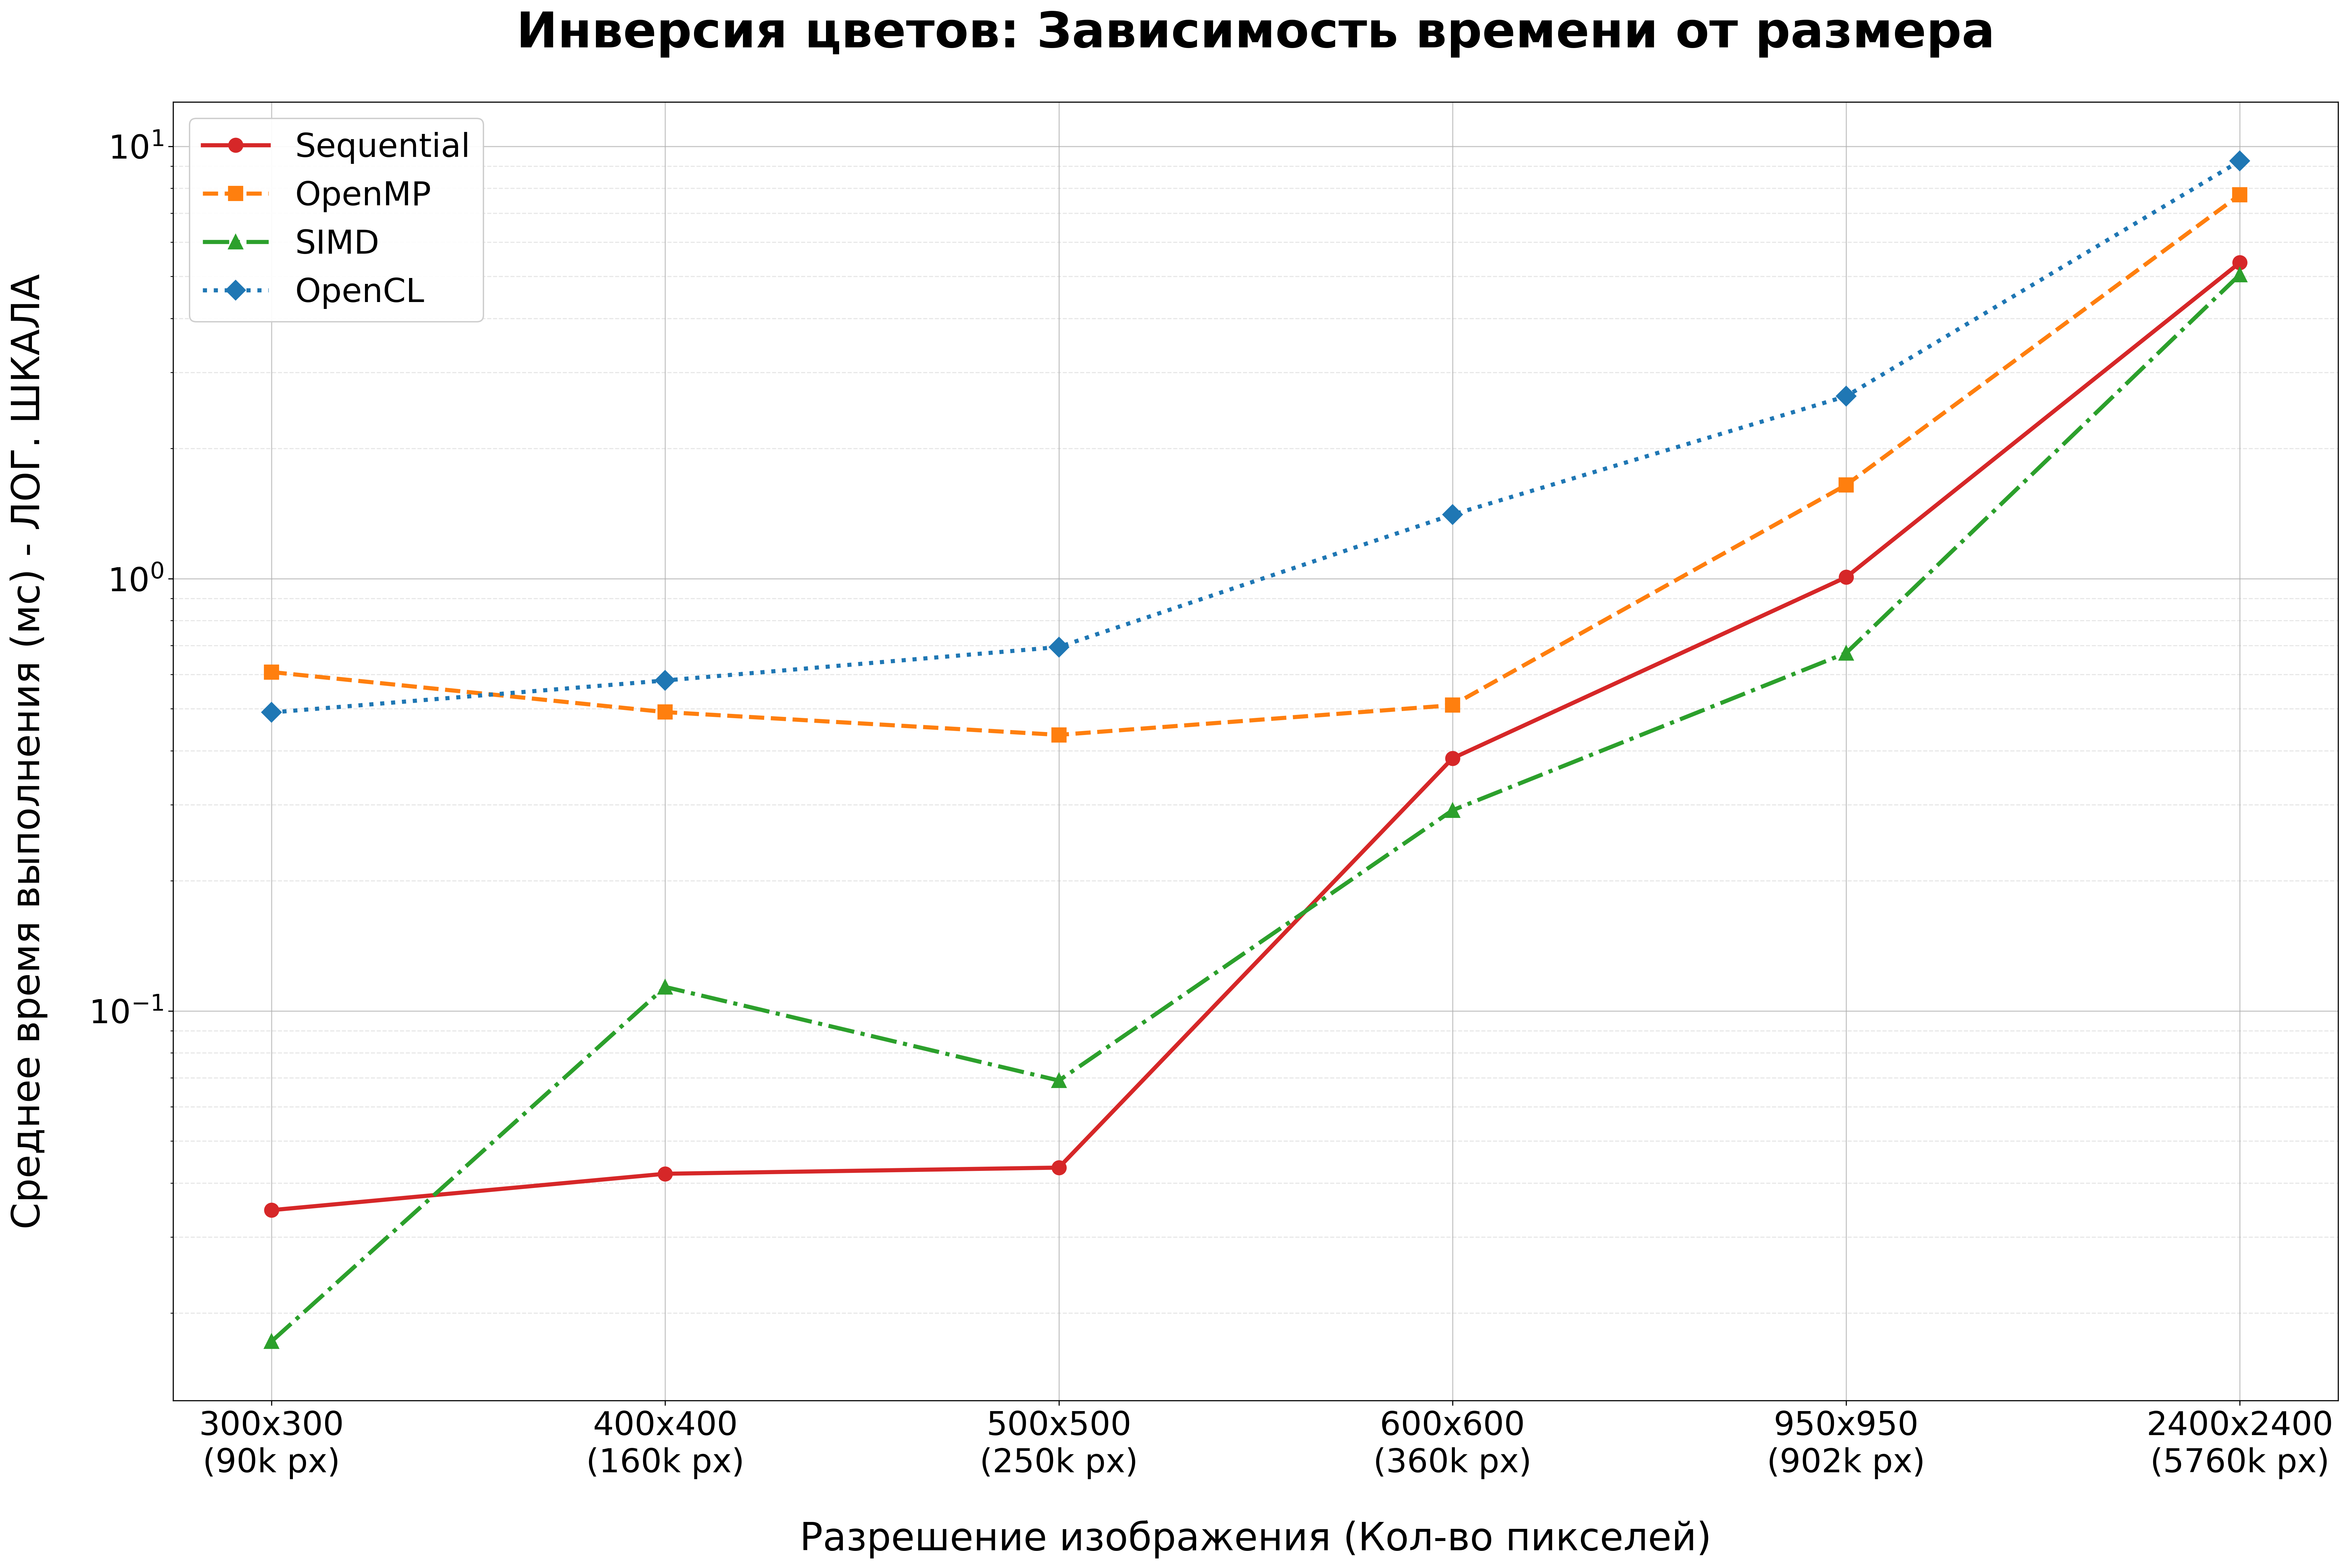
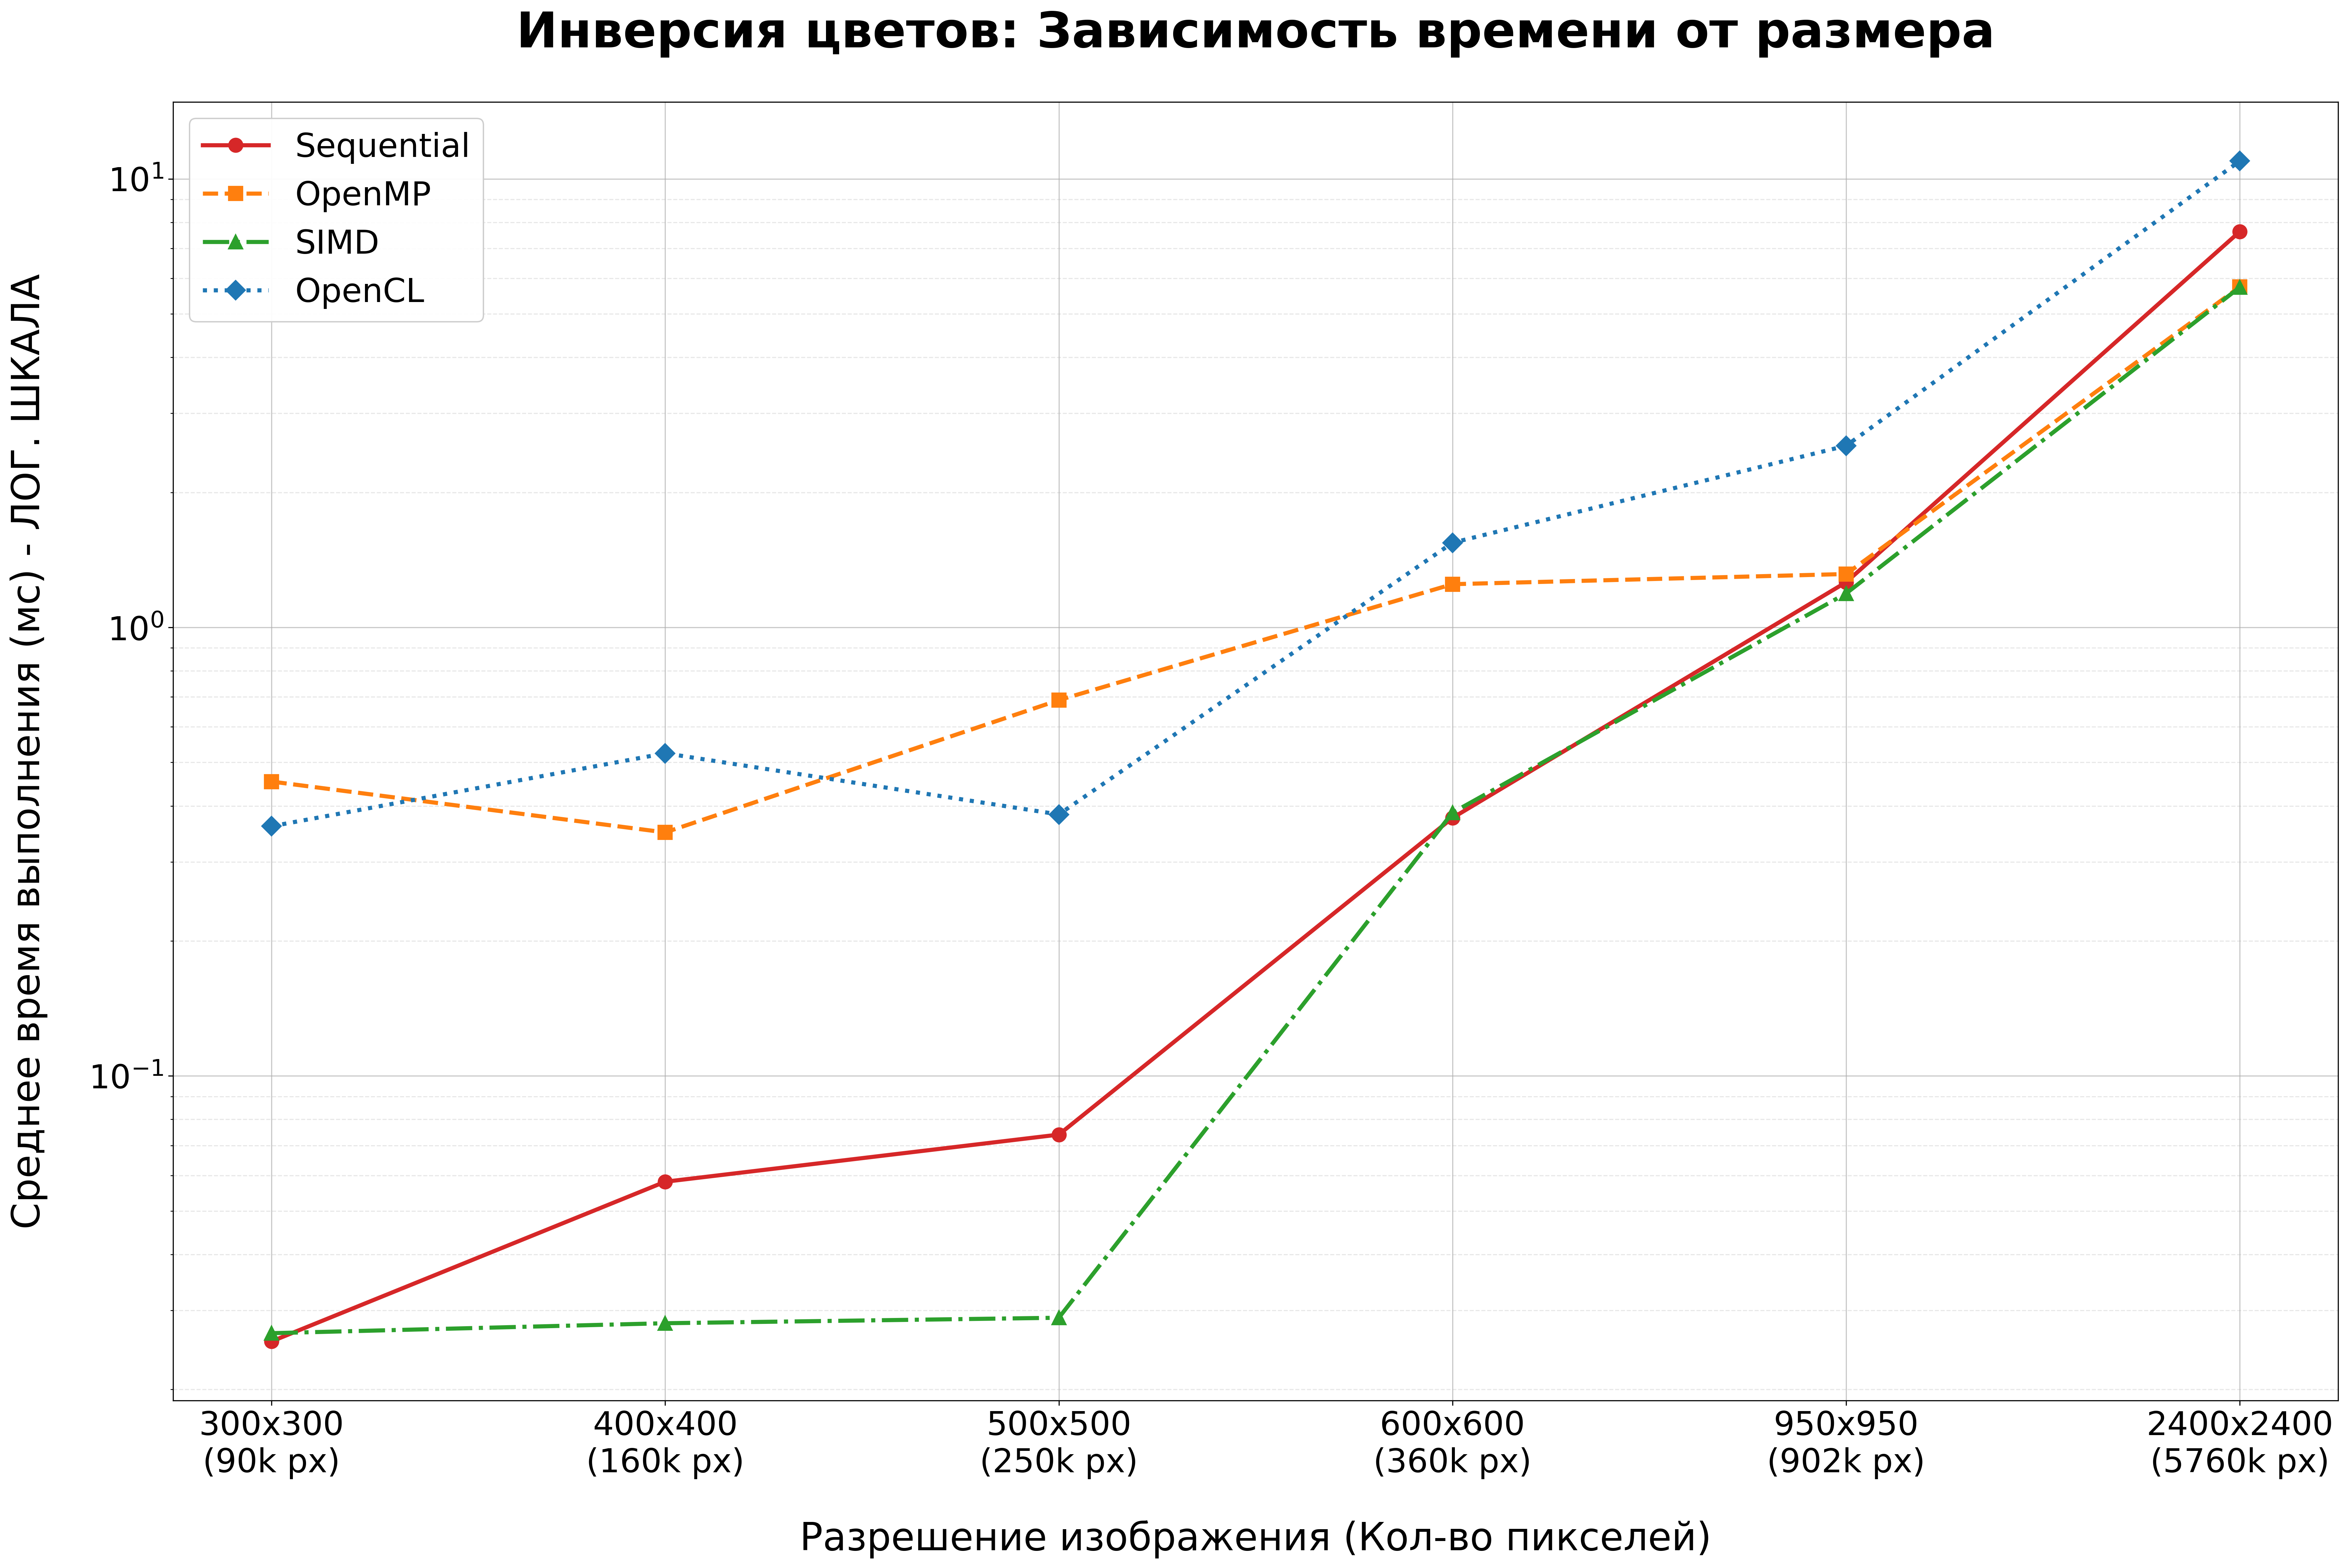
finil

diff --git a/main.cpp b/main.cpp
@@ -583,8 +583,6 @@ int main(int argc, char** argv) {
     const int repeats = (argc >= 3) ? std::atoi(argv[2]) : 5;
 
     const ImageView input = LoadPng(input_path);
-    std::cout << "Loaded " << input.width << "x" << input.height << " ("
-              << input.pixels.size() / (1024.0 * 1024.0) << " MB)\n";
 
     namespace fs = std::filesystem;
     const fs::path input_stem = fs::path(input_path).stem();
@@ -601,25 +599,22 @@ int main(int argc, char** argv) {
     };
 
     std::vector<BenchmarkRow> rows;
-    rows.push_back(bench("Inversion", "Sequential", [&] { return InvertSequential(input); }, "inversion.png"));
-    rows.push_back(bench("Inversion", "OpenMP",     [&] { return InvertOpenMp(input); }));
-    rows.push_back(bench("Inversion", "SIMD",       [&] { return InvertSimd(input); }));
-    rows.push_back(bench("Inversion", "OpenCL",     [&] { return InvertOpenCl(cl_ctx, input); }));
+    rows.push_back(bench("Inversion", "Sequential", [&] { return InvertSequential(input); }, "inversion_seq.png"));
+    rows.push_back(bench("Inversion", "OpenMP",     [&] { return InvertOpenMp(input); },     "inversion_omp.png"));
+    rows.push_back(bench("Inversion", "SIMD",       [&] { return InvertSimd(input); },       "inversion_simd.png"));
+    rows.push_back(bench("Inversion", "OpenCL",     [&] { return InvertOpenCl(cl_ctx, input); }, "inversion_cl.png"));
 
-    rows.push_back(bench("Median 3x3", "Sequential", [&] { return MedianSequential(input); }, "median.png"));
-    rows.push_back(bench("Median 3x3", "OpenMP",     [&] { return MedianOpenMp(input); }));
-    rows.push_back(bench("Median 3x3", "SIMD",       [&] { return MedianSimd(input); }));
-    rows.push_back(bench("Median 3x3", "OpenCL",     [&] { return RunOpenCl2d(cl_ctx, cl_ctx.median_kernel, input); }));
+    rows.push_back(bench("Median 3x3", "Sequential", [&] { return MedianSequential(input); }, "median_seq.png"));
+    rows.push_back(bench("Median 3x3", "OpenMP",     [&] { return MedianOpenMp(input); },     "median_omp.png"));
+    rows.push_back(bench("Median 3x3", "SIMD",       [&] { return MedianSimd(input); },       "median_simd.png"));
+    rows.push_back(bench("Median 3x3", "OpenCL",     [&] { return RunOpenCl2d(cl_ctx, cl_ctx.median_kernel, input); }, "median_cl.png"));
 
-    rows.push_back(bench("Sobel Edges", "Sequential", [&] { return EdgeSequential(input); }, "edges.png"));
-    rows.push_back(bench("Sobel Edges", "OpenMP",     [&] { return EdgeOpenMp(input); }));
-    rows.push_back(bench("Sobel Edges", "SIMD",       [&] { return EdgeSimd(input); }));
-    rows.push_back(bench("Sobel Edges", "OpenCL",     [&] { return RunOpenCl2d(cl_ctx, cl_ctx.sobel_kernel, input); }));
+    rows.push_back(bench("Sobel Edges", "Sequential", [&] { return EdgeSequential(input); }, "edges_seq.png"));
+    rows.push_back(bench("Sobel Edges", "OpenMP",     [&] { return EdgeOpenMp(input); },     "edges_omp.png"));
+    rows.push_back(bench("Sobel Edges", "SIMD",       [&] { return EdgeSimd(input); },       "edges_simd.png"));
+    rows.push_back(bench("Sobel Edges", "OpenCL",     [&] { return RunOpenCl2d(cl_ctx, cl_ctx.sobel_kernel, input); }, "edges_cl.png"));
 
-    std::cout << "Saved results to " << out_dir.string() << "/\n";
-
-    PrintTable(rows);
-    std::FILE* csv = std::fopen("results.csv", "a");
+    std::FILE* csv = std::fopen("C:\\image_filters\\results.csv", "a");
     if (csv) {
       const double megapixels = (input.width * static_cast<double>(input.height)) / 1.0e6;
       for (const auto& r : rows) {

diff --git a/main.py b/main.py
@@ -7,24 +7,24 @@ resolutions = ['300x300', '400x400', '500x500', '600x600', '950x950', '2400x2400
 pixels = [90000, 160000, 250000, 360000, 902500, 5760000]
 
 invert_data = {
-    'Sequential': [0.0346, 0.0420, 0.0434, 0.3839, 1.0074, 5.3803],
-    'OpenMP':     [0.6078, 0.4911, 0.4350, 0.5095, 1.6469, 7.7196],
-    'SIMD':       [0.0172, 0.1136, 0.0690, 0.2911, 0.6726, 5.0472],
-    'OpenCL':     [0.4902, 0.5812, 0.6945, 1.4055, 2.6415, 9.2447],
+    'Sequential': [0.0256, 0.0581, 0.0740, 0.3761, 1.2611, 7.6297],
+    'OpenMP':     [0.4532, 0.3491, 0.6885, 1.2483, 1.3152, 5.7430],
+    'SIMD':       [0.0267, 0.0281, 0.0289, 0.3863, 1.1904, 5.7333],
+    'OpenCL':     [0.3603, 0.5240, 0.3828, 1.5443, 2.5409, 10.9579],
 }
 
 median_data = {
-    'Sequential': [15.1532, 30.7538, 36.6511, 36.9428, 152.1254, 984.4886],
-    'OpenMP':     [5.0534,  6.6268,  5.7356,  5.6820,  47.8455,  117.4008],
-    'SIMD':       [0.7909,  4.2538,  2.4504,  3.4945,  7.4681,   47.1407],
-    'OpenCL':     [0.5023,  0.8760,  0.5615,  1.1622,  2.1135,   11.7677],
+    'Sequential': [23.2204, 33.1446, 34.0246, 35.6081, 198.6419, 1144.8404],
+    'OpenMP':     [4.3767,  5.1697,  5.5207,  7.9888,  22.7645,  109.7331],
+    'SIMD':       [0.7579,  3.4040,  3.1016,  2.9518,  10.2339,  58.9350],
+    'OpenCL':     [0.3401,  0.4588,  0.6845,  1.8001,  2.7854,   9.8373],
 }
 
 sobel_data = {
-    'Sequential': [0.6774, 1.3545, 0.9265, 2.0325, 4.0301, 35.6913],
-    'OpenMP':     [0.5431, 1.1135, 0.9713, 1.5988, 2.6335, 15.4130],
-    'SIMD':       [0.0894, 0.4844, 0.7920, 0.7515, 1.3945, 14.7785],
-    'OpenCL':     [0.3579, 0.6363, 0.5409, 1.4300, 2.4181, 11.9788],
+    'Sequential': [0.5162, 1.0819, 1.3082, 2.1527, 4.8588, 41.8887],
+    'OpenMP':     [0.7883, 1.2746, 1.2097, 1.9437, 3.0878, 18.7524],
+    'SIMD':       [0.0975, 0.1916, 0.4405, 0.7523, 1.6026, 17.0003],
+    'OpenCL':     [0.5468, 0.5094, 0.6883, 1.8485, 2.9369, 11.5313],
 }
 
 styles = {

diff --git a/REPORT.md b/REPORT.md
@@ -10,34 +10,34 @@
 
 | Размер | Мп | Sequential | OpenMP | SIMD (AVX2) | OpenCL |
 |--------|------|-----------|--------|-------------|--------|
-| 300×300 | 0.09 | 0.016 | 0.362     | 0.015       | 0.371 |
-| 400×400 | 0.16 | 0.033 | 0.374     | 0.030       | 0.465 |
-| 500×500 | 0.25 | 0.078 | 0.529     | 0.048       | 0.442 |
-| 600×600 | 0.36 | 0.252 | 0.891     | 0.433       | 0.963 |
-| 950×950 | 0.90 | 1.334 | 1.390     | 1.074       | 2.591 |
-| 2400×2400| 5.76| 7.967 | 6.279     | 6.597       | 11.487 |
+| 300×300   | 0.09 | 0.026 | 0.453 | 0.027 | 0.360 |
+| 400×400   | 0.16 | 0.058 | 0.349 | 0.028 | 0.524 |
+| 500×500   | 0.25 | 0.074 | 0.689 | 0.029 | 0.383 |
+| 600×600   | 0.36 | 0.376 | 1.248 | 0.386 | 1.544 |
+| 950×950   | 0.90 | 1.261 | 1.315 | 1.190 | 2.541 |
+| 2400×2400 | 5.76 | 7.630 | 5.743 | 5.733 | 10.958 |
 
 ### Медианный фильтр 3×3
 
 | Размер | Мп | Sequential | OpenMP | SIMD (AVX2) | OpenCL |
 |--------|------|-----------|--------|-------------|--------|
-| 300×300 | 0.09 | 26.71    | 4.09   | 1.88        |    0.39 |
-| 400×400 | 0.16 | 44.19    | 4.88   | 2.47        |    0.32 |
-| 500×500 | 0.25 | 37.20    | 5.58   | 2.75        |    0.59 |
-| 600×600 | 0.36 | 44.15    | 5.57   | 2.24        |    1.02 |
-| 950×950 | 0.90 | 218.95   | 19.96  | 9.89        |    3.18 |
-| 2400×2400 | 5.76 | 1323.29| 113.21 | 47.28       |    13.08 |
+| 300×300   | 0.09 |   23.22 |   4.38 |   0.76 |  0.34 |
+| 400×400   | 0.16 |   33.14 |   5.17 |   3.40 |  0.46 |
+| 500×500   | 0.25 |   34.02 |   5.52 |   3.10 |  0.68 |
+| 600×600   | 0.36 |   35.61 |   7.99 |   2.95 |  1.80 |
+| 950×950   | 0.90 |  198.64 |  22.76 |  10.23 |  2.79 |
+| 2400×2400 | 5.76 | 1144.84 | 109.73 |  58.93 |  9.84 |
 
 ### Sobel (обнаружение границ)
 
 | Размер | Мп | Sequential | OpenMP | SIMD (AVX2) | OpenCL |
 |--------|------|-----------|--------|-------------|--------|
-| 300×300 | 0.09 | 0.63     | 0.77   | 0.19        | 0.31 |
-| 400×400 | 0.16 | 0.60     | 1.23   | 0.39        | 0.63 |
-| 500×500 | 0.25 | 1.23     | 1.06   | 0.23        | 0.69 |
-| 600×600 | 0.36 | 1.52     | 1.27   | 0.62        | 1.24 |
-| 950×950 | 0.90 | 5.08     | 3.13   | 1.75        | 2.37 |
-| 2400×2400 | 5.76| 34.57   | 16.03  | 13.51       | 13.12 |
+| 300×300   | 0.09 |  0.52 |  0.79 |  0.10 |  0.55 |
+| 400×400   | 0.16 |  1.08 |  1.27 |  0.19 |  0.51 |
+| 500×500   | 0.25 |  1.31 |  1.21 |  0.44 |  0.69 |
+| 600×600   | 0.36 |  2.15 |  1.94 |  0.75 |  1.85 |
+| 950×950   | 0.90 |  4.86 |  3.09 |  1.60 |  2.94 |
+| 2400×2400 | 5.76 | 41.89 | 18.75 | 17.00 | 11.53 |
 
 (жирным выделен победитель по строке)
 
@@ -45,48 +45,42 @@
 
 | Фильтр | OpenMP | SIMD | OpenCL |
 |--------|--------|------|--------|
-| Инверсия | ×1.27 | ×1.21 | ×0.69 |
-| Медиана 3×3 | ×11.7 | ×28.0 | ×101.2 |
-| Sobel | ×2.16 | ×2.56 | ×2.64 |
+| Инверсия    | ×1.33 | ×1.33 | ×0.70 |
+| Медиана 3×3 | ×10.4 | ×19.4 | ×116.4 |
+| Sobel       | ×2.23 | ×2.46 | ×3.63 |
 
-## Анализ зависимости от размера изображения N (пикселей)
+## Зависимость от размера изображения
 
-Во всех бэкендах теоретическая сложность каждого фильтра — **O(N)** (постоянное число операций на пиксель). На графике `time(N)` это даст прямую линию... но только асимптотически. На малых размерах добавляются константные накладные расходы:
+Размер исходного и результирующего изображения у нас одинаковый — все три фильтра не меняют разрешение картинки. Поэтому интерес представляет одна величина — число пикселей N.
 
-- **OpenMP:** ~0.3 мс на создание/синхронизацию пула потоков на каждый вызов фильтра. На 300×300 это видно: инверсия 0.016 мс scalar → 0.362 мс с OpenMP. Имеет смысл включать OpenMP только когда работа сама по себе занимает > ~1 мс.
-- **OpenCL:** ~0.3–0.6 мс на копирование буфера host↔device через PCIe + запуск kernel'а. До ~1 Мп этот оверхед сравним со всем временем фильтра.
-- **SIMD:** оверхеда практически нет (просто другие инструкции), поэтому на маленьких изображениях SIMD — единственный backend без проигрыша.
+Теоретически у всех фильтров сложность O(N): каждый пиксель обрабатывается независимо за константное число операций. На графике "время vs N" это даёт прямую линию, проходящую через начало координат.
+
+На практике для маленьких размеров видны константные накладные расходы (~0.3 мс на запуск OpenMP-пула или копирование на GPU). Из-за этого кривые на малых N задраны вверх, но к большим N выходят на правильный линейный тренд.
 
 ### Поведение по фильтрам
 
-**Инверсия — memory-bound.** Это `output[i] = 255 - input[i]` — одна XOR-инструкция на байт. CPU давится не вычислениями, а пропускной способностью памяти. Поэтому:
-- OpenMP и SIMD дают околонулевой выигрыш на больших размерах: ускорить вычисления нельзя, потому что они и так не узкое место.
-- OpenCL **проигрывает** на всех размерах — передача через PCIe медленнее, чем сама работа на CPU.
-- Зависимость от N — линейная и почти одинаковая для всех CPU-бэкендов (наклон ≈ 1.4 нс/пиксель ≈ memcpy на DDR4).
+**Инверсия — memory-bound.** Работа на пиксель минимальная (XOR с 0xFF). Узкое место — пропускная способность памяти, а не процессор. Поэтому параллелизм почти не помогает: все 4 реализации на 5.76 Мп дают примерно одно и то же время (5–11 мс). OpenCL даже проигрывает Sequential из-за копирования через PCIe.
 
-**Медиана 3×3 — compute-bound.** Sorting network из ~25 операций сравнения-обмена на каждый из 3 каналов = ~75 операций на пиксель. Вычислений много, поэтому:
-- OpenMP даёт почти линейный масштаб по числу ядер (×11.7 на 6+ ядрах с учётом SMT — ожидаемо).
-- SIMD: AVX2 обрабатывает 32 байта за инструкцию, sorting network применяется ко всем сразу → ×28 над scalar.
-- **OpenCL — абсолютный победитель** на любом размере: GPU умеет тысячи параллельных нитей с дешёвыми сравнениями, ×101 над scalar.
-- Зависимость от N — строго линейная, видно из того, что time(2400) / time(950) ≈ (2400/950)² ≈ 6.4, и реально 1323/219 = 6.04 для Sequential, 113/20 = 5.65 для OpenMP, 13/3.2 = 4.06 для OpenCL (у OpenCL чуть лучше из-за лучшего использования параллелизма на крупных задачах).
+Вывод: для лёгких per-pixel операций параллелить нет смысла — упираешься в DRAM.
 
-**Sobel — промежуточный случай.** Работы немного (~10 сложений и пара abs на пиксель), но больше чем у инверсии. Поэтому:
-- OpenMP и SIMD дают умеренный выигрыш ×2–×2.5.
-- OpenCL догоняет SIMD только на больших размерах (2400×2400: SIMD 13.51 vs OpenCL 13.12). Меньше — SIMD выигрывает, потому что нет накладных расходов на PCIe.
-- Линейность аналогична: time(2400)/time(950) ≈ 6.36 (теоретически 6.40) для Sequential.
+**Медиана 3×3 — compute-bound.** Sorting network из ~25 сравнений на канал × 3 канала = ~75 операций на пиксель. Вычислений много, и они отлично распараллеливаются. На 5.76 Мп: Sequential 1145 мс, OpenMP 110 мс (×10.4), SIMD 59 мс (×19.4), OpenCL 9.8 мс (×116).
+
+Вывод: на тяжёлых compute-bound задачах GPU даёт огромный выигрыш — на 2 порядка быстрее scalar.
+
+**Sobel — средний случай.** 10 операций на пиксель + работа с одним каналом яркости. Ускорения умеренные: OpenMP ×2.2, SIMD ×2.5, OpenCL ×3.6. OpenCL обгоняет SIMD только на больших картинках (точка перелома ~1 Мп) — на меньших накладные расходы PCIe съедают выигрыш.
 
 ## Выводы
 
-1. **Линейная сложность от N подтверждается** во всех 12 кривых `time vs пиксели`. Отклонения от прямой на малых N объясняются константными накладными расходами параллельных бэкендов.
+1. **Линейная сложность O(N)** подтверждается всеми 12 кривыми: время растёт пропорционально площади картинки. Например для Sequential-медианы: размер вырос в 6.4 раза (с 0.9 Мп до 5.76 Мп) — время выросло в 5.78 раза.
 
-2. **Выбор backend'а зависит от соотношения вычисления/память:**
-   - *Memory-bound* (инверсия) → ничто не помогает, можно оставить Sequential или лёгкий SIMD.
-   - *Compute-bound* (медиана) → GPU/OpenCL для любых размеров.
-   - *Средний случай* (Sobel) → SIMD на малых изображениях, OpenCL на больших (точка перелома ~2 Мп).
+2. **Параллелизм имеет смысл только при достаточном объёме работы.** Если фильтр сам по себе занимает < 1 мс — OpenMP и OpenCL только замедляют. SIMD безопасен всегда (нет накладных расходов).
 
-3. **OpenCL имеет минимум полезной нагрузки ~0.3 мс** на одну операцию. Использовать его осмысленно, когда работа фильтра иначе занимает > ~1 мс.
+3. **Выбор backend'а зависит от характера задачи:**
+   - Memory-bound (инверсия) → Sequential или SIMD одинаково хороши.
+   - Compute-bound (медиана) → OpenCL вне конкуренции.
+   - Средний случай (Sobel) → SIMD для малых картинок, OpenCL для больших.
 
-4. **OpenMP проигрывает на малых данных** из-за overhead'а потокового пула. Для библиотек с малыми входами лучше делать порог: если N < threshold → fallback на Sequential.
+4. **GPU имеет "стоимость входа" ~0.3–0.6 мс** на копирование данных через PCIe. На задачах быстрее этого порога — GPU всегда проиграет CPU-реализациям.
 
 # Запуск:
 cd C:\image_filters
@@ -96,5 +90,17 @@ cd C:\image_filters
 
 # Все сразу
 foreach ($img in @('300x300','400x400','500x500','600x600','950x950','2400x2400')) {
-  .\image_filters.exe "test_images\$img.png" 10
+  .\image_filters.exe "test_images\$img.png" 10 
 }
+
+формула для перевода пикселя в в одно число (яркость) 0.3·R + 0.59·G + 0.11·B.
+
+# как скомпилировать это чудо:
+cd C:\image_filters
+g++ -O3 -march=native -mavx2 -fopenmp -std=c++17 `
+    -DCL_TARGET_OPENCL_VERSION=120 `
+    main.cpp `
+    -I "C:\OpenCL-SDK-v2025.07.23-Win-x64\include" `
+    -L "C:\OpenCL-SDK-v2025.07.23-Win-x64\lib" `
+    -lOpenCL `
+    -o image_filters.exe